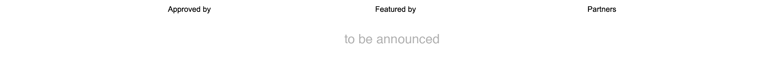
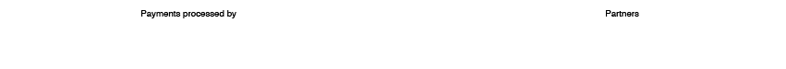
Correct footer bar in footer, created new images for bar, added link references, created corresponding css.

diff --git a/public/stylesheets/screen.css b/public/stylesheets/screen.css
@@ -244,6 +244,24 @@ body {
   background-image: url(/images/footer.png);
   margin: 20px 0 0 0; }
 
+#processed_by {
+  height: 40px;
+  width: 64px;
+  margin: 22px 0 0 160px;
+  float: left; }
+
+#partners {
+  height: 55px;
+  width: 115px;
+  margin: 19px 75px 0 0;
+  float: right; }
+
+#partnersff {
+  height: 45px;
+  width: 19px;
+  margin: 15px 0 0 0;
+  float: right; }
+
 /********************Projects***********************/
 #projects {
   font-size: 20px;

diff --git a/public/stylesheets/sass/screen.scss b/public/stylesheets/sass/screen.scss
@@ -272,6 +272,26 @@ body {
   background-image: url(/images/footer.png);
   margin: 20px 0 0 0; }
 
+#processed_by {
+  height: 40px;
+  width: 64px;
+  margin: 22px 0 0 160px;
+  float: left;
+}
+
+#partners {
+  height: 55px;
+  width: 115px;
+  margin: 19px 75px 0 0;
+  float: right; }
+
+#partnersff {
+  height: 45px;
+  width: 19px;
+  margin: 15px 0 0 0;
+  float: right;
+}  
+
 //#approved_by {
 //  height: 40px;
 //  width: 250px;
